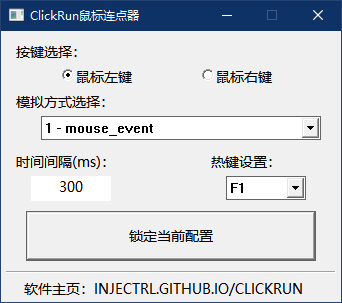
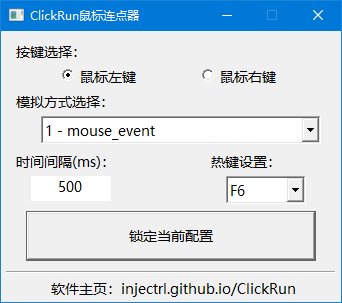
优化一些问题。

diff --git a/README.md b/README.md
@@ -1,12 +1,11 @@
 # ClickRun
 
-> 简单的鼠标连点器
-
-## 下载
-
-[X86](https://github.com/InJeCTrL/ClickRun/releases/download/1.0/x86.zip)
-
-[X64](https://github.com/InJeCTrL/ClickRun/releases/download/1.0/x64.zip)
+> 简单易用的鼠标连点器，优化了一些原版存在的问题：
+> - 两次重复的 EnableWindow(hRadio_Left, TRUE)
+> - SendInput 合并为单次数组调用
+> - 线程句柄泄漏（从未 CloseHandle）
+> - 配置写入 HKLM 需要管理员权限
+> - 代码调整
 
 ## 说明
 
@@ -14,7 +13,7 @@
 
 - [x] 连点鼠标左键、右键
 
-- [x] SendInput与mouse_event两种API实现模拟点击
+- [x] SendInput与Mouse_Event两种API实现模拟点击
 
 - [x] 可选F1~F12作为连点启停热键
 